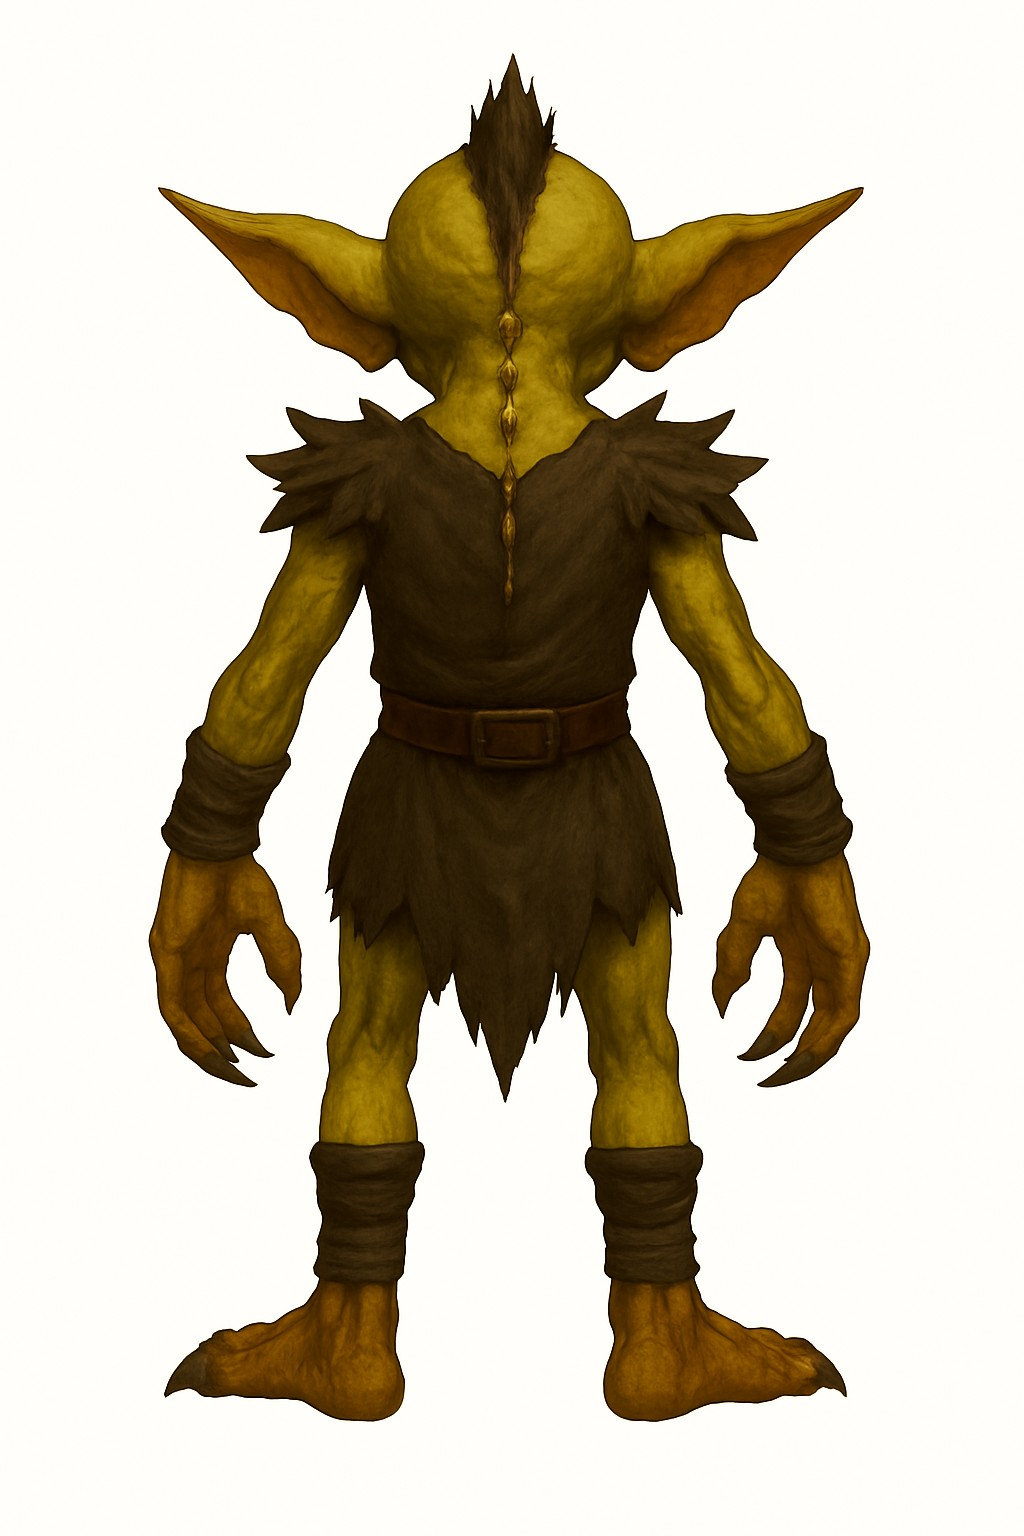
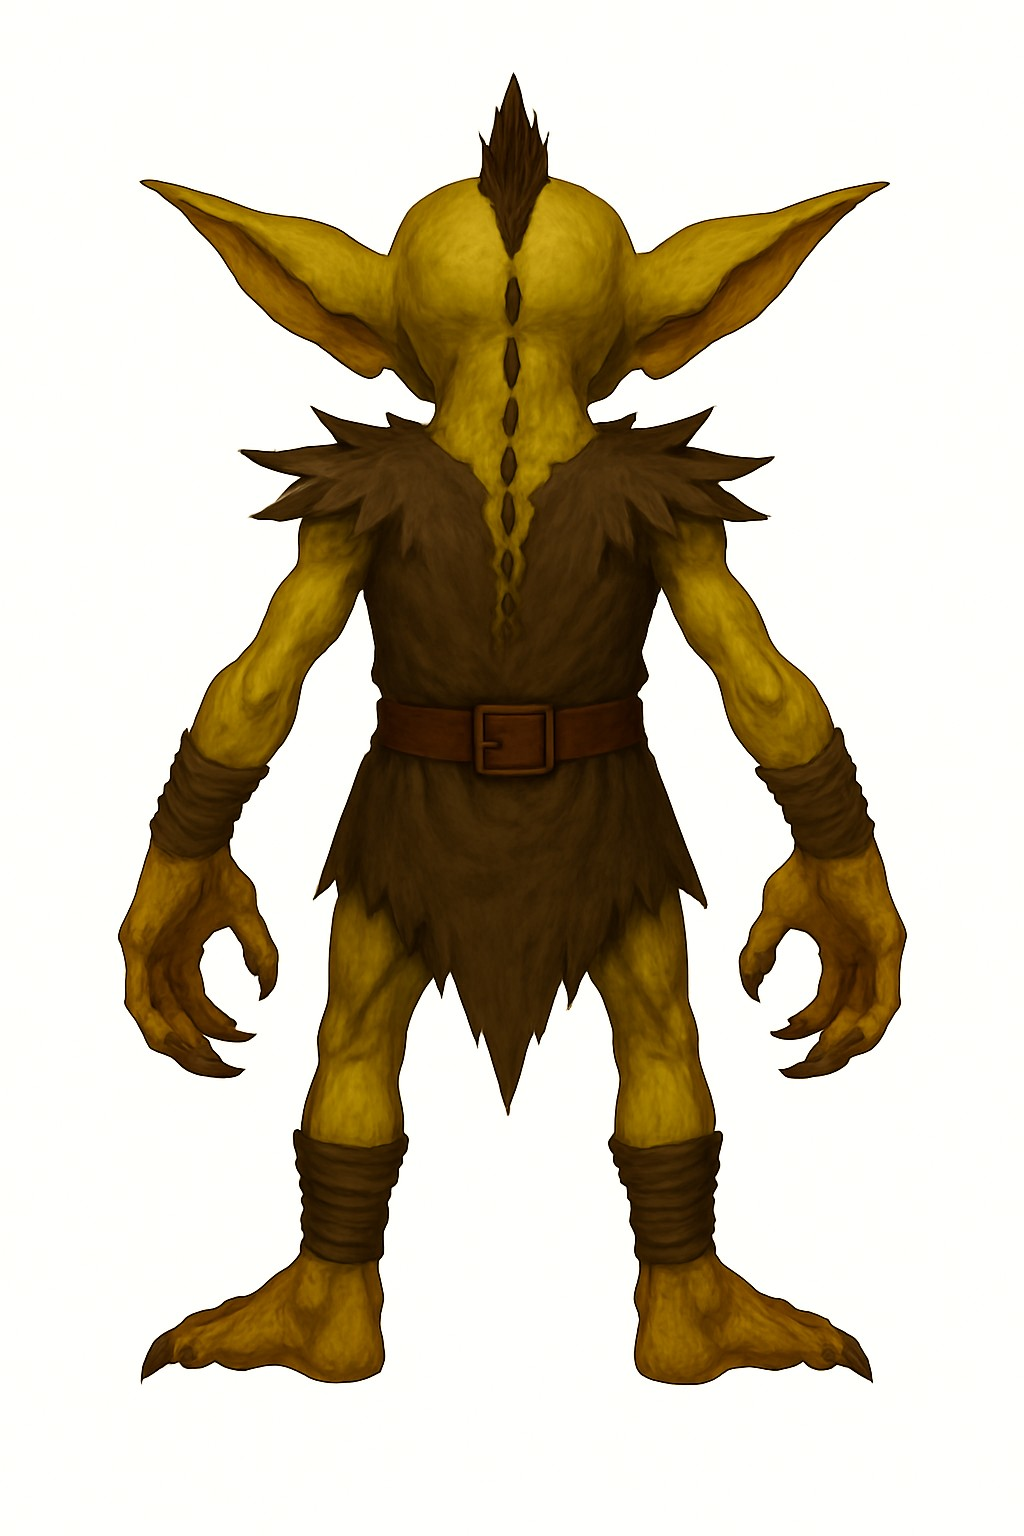
feat(art): goblin multiview re-gerado em A-pose ABERTA (vao da axila) pro rig limpo
Os bracos antes caiam colados no tronco (I-pose) -> risco do gerador 3D fundir
braco no corpo. Agora frente/lado/costas com bracos abertos ~40 graus e gap na
axila visivel: mesh sai com braco e tronco separados, rig Mixamo limpo. Mantida
a identidade (pele oliva, espinhos osseos, orelhonas, bocarra, garras).

Claude-Session: https://claude.ai/code/session_01NSQwyQEwyt7p4UfkeCenMp

Changed region(s): [[0.0938, 0.0312, 0.9062, 0.9375], [0.3438, 0.4375, 0.375, 0.5], [0.8438, 0.0938, 0.875, 0.125]]

diff --git a/tools/art_director/gen_goblin_multiview.py b/tools/art_director/gen_goblin_multiview.py
@@ -33,14 +33,17 @@ KEEP = (
 VIEWS = {
     "front": (
         "FRONT view of the goblin, standing UPRIGHT and facing the viewer in a "
-        "symmetric relaxed A-POSE: both arms held slightly away from the body, "
-        "legs straight, looking straight ahead. Less hunched than the reference, "
-        "calm neutral standing reference pose. " + KEEP
+        "symmetric clean A-POSE: both arms held clearly AWAY from the torso at "
+        "about 40 degrees, a wide OPEN GAP visible under each armpit, hands well "
+        "away from the thighs, fingers spread, legs straight and slightly apart, "
+        "looking straight ahead. Less hunched than the reference, calm neutral "
+        "T-pose-like reference stance for 3D rigging. " + KEEP
     ),
     "side": (
         "SIDE PROFILE view of the goblin, facing to the RIGHT (90-degree side "
-        "view), standing upright in the same relaxed A-pose, feet pointing RIGHT "
-        "in profile. " + KEEP
+        "view), standing upright in the same clean A-pose with the arm held away "
+        "from the body (open gap at the armpit), feet pointing RIGHT in profile. "
+        + KEEP
     ),
     # NOTA: o safety do Azure (gptimage) recusa "from BEHIND / back of the legs".
     # Esta redacao mais neutra ("turned around, shows its back") passa.
@@ -49,7 +52,8 @@ VIEWS = {
         "head is turned away looking forward, we see the back of the skull, the "
         "back of the two large pointed ears, the dark hair crest, the bony spikes "
         "running down the spine, the back of the tunic and the tail of cloth, "
-        "standing upright in a calm symmetric A-pose. " + KEEP
+        "standing upright in a clean symmetric A-pose with both arms held away "
+        "from the torso at about 40 degrees, open gap under each armpit. " + KEEP
     ),
 }
 